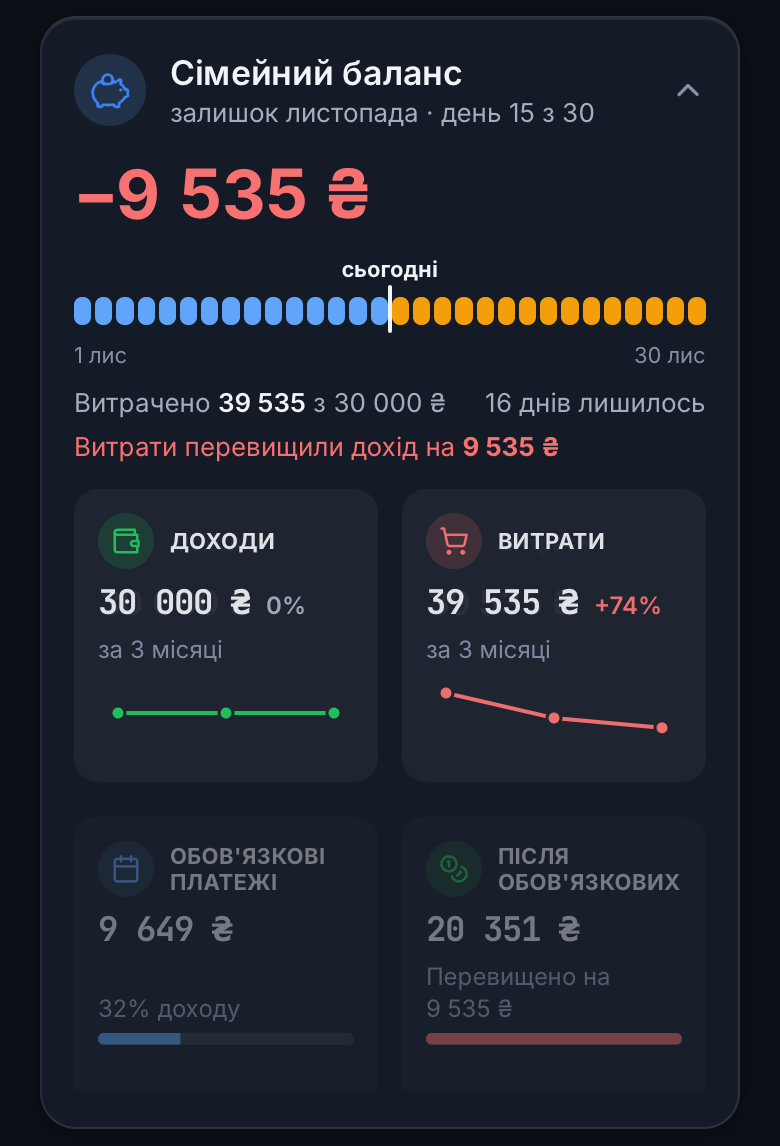
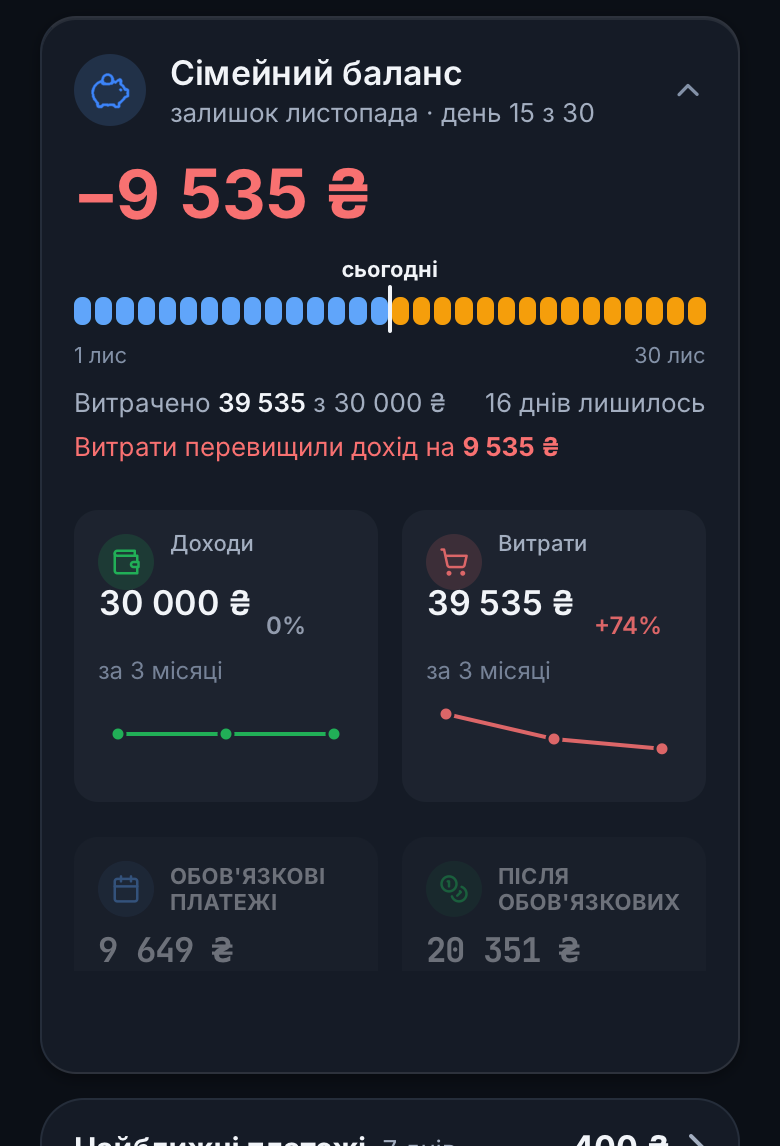
Rev 2.32.416 FIX-1119 п.10 (відповідь чату): одна копія значення без згасання, висота й вміст ростуть синхронно (380 мс, --ease-standard), кадри згортання зняті окремо й перевіряються на відмінність від розгортання; не запушено

diff --git a/css/app.css b/css/app.css
@@ -2772,7 +2772,7 @@
 /* ===== Rev 2.32.385 (DS-5a): картка «Сімейний баланс» (макет docs/ui/mockups/analytics-ds, v18). Лише токени; рух — transform/opacity, висота розгортання — grid-template-rows (виняток ДС-плану, як у «Словнику»). Значення макета, що не лягають на шкалу токенів (відступи 6/10 px, шрифт 19 px), округлено до найближчого токена. ===== */
 .bal-wrap{ margin-bottom:var(--sp-3); }
 .bal-wrap.hidden{ display:none; }
-.bal-card{ --bal-seg-step:14ms; --bal-seg-base:150ms; --bal-late:650ms; --bal-dot-step:60ms; --bal-dot-base:250ms; --bal-inx:80ms; --bal-line:150ms; display:flex; flex-direction:column; gap:var(--sp-3); padding:var(--sp-4); margin-top:0; background:var(--surface); border:1px solid var(--line); border-radius:var(--r-l); box-shadow:none; min-width:0; }
+.bal-card{ --bal-seg-step:14ms; --bal-seg-base:150ms; --bal-late:650ms; --bal-dot-step:60ms; --bal-dot-base:250ms; --bal-inx:0ms; --bal-line:150ms; display:flex; flex-direction:column; gap:var(--sp-3); padding:var(--sp-4); margin-top:0; background:var(--surface); border:1px solid var(--line); border-radius:var(--r-l); box-shadow:none; min-width:0; }
 .bal-sum{ display:flex; flex-direction:column; gap:var(--sp-3); width:100%; margin:0; padding:0; border:0; background:none; color:inherit; font:inherit; text-align:left; cursor:pointer; border-radius:var(--r-xs); transition:opacity var(--t-micro) var(--ease-standard); }
 .bal-sum:active{ opacity:.6; }
 .bal-top{ display:flex; align-items:center; gap:var(--sp-3); }
@@ -2819,9 +2819,9 @@
 @keyframes balDraw{ from{ stroke-dashoffset:1; } }
 @keyframes balDot{ from{ opacity:0; transform:scale(.3); } }
 /* розкриття на місці: висота 320 мс, вміст із затримкою 80 мс */
-.bal-xp{ display:grid; grid-template-rows:0fr; margin-top:calc(var(--sp-3) * -1); transition:grid-template-rows var(--t-m) var(--ease-out); }
+.bal-xp{ display:grid; grid-template-rows:0fr; margin-top:calc(var(--sp-3) * -1); transition:grid-template-rows 380ms var(--ease-standard); } /* Rev 2.32.416 (FIX-1119 п.10, відповідь чату): висота росте й зменшується тією самою тривалістю (380 мс, як FLIP значень) і рівномірною кривою --ease-standard (було --ease-out: ≈ 60 % висоти вже на 20 % часу, картка стрибала й стояла порожньою) */
 .bal-xp > div{ overflow:hidden; min-height:0; }
-.bal-xin{ display:flex; flex-direction:column; gap:var(--sp-3); padding-top:var(--sp-3); opacity:0; transition:opacity var(--t-s) var(--ease-standard); }
+.bal-xin{ display:flex; flex-direction:column; gap:var(--sp-3); padding-top:var(--sp-3); opacity:0; transition:opacity 380ms var(--ease-standard); }
 .bal-card.open > .bal-xp{ grid-template-rows:1fr; }
 .bal-card.open > .bal-xp .bal-xin{ opacity:1; transition-delay:var(--bal-inx); }
 .bal-xp.bal-inv{ grid-template-rows:1fr; }

diff --git a/e2e/fix1119-flip-frames.spec.js b/e2e/fix1119-flip-frames.spec.js
@@ -28,7 +28,8 @@ test('fix1119-flip-frames', async ({ browser }) => {
     });
     const clip = { x: 0, y: box.y, width: 390, height: box.h };
     for (const dir of ['open', 'close']) {
-      if (dir === 'close') { await page.evaluate(async () => { toggleBalanceCard(); await new Promise(r => setTimeout(r, 900)); }); }
+      // згортання знімаємо з розгорнутого стану (після фази open картка розгорнута): один toggle = анімація згортання
+      if (dir === 'close') { const isOpen = await page.evaluate(() => document.getElementById('bal-card').classList.contains('open')); if (!isOpen) throw new Error('перед згортанням картка має бути розгорнутою'); }
       await page.evaluate(() => { toggleBalanceCard(); });
       await page.evaluate(() => { document.getAnimations().forEach(a => a.pause()); });
       for (const pr of STEPS) {
@@ -38,9 +39,14 @@ test('fix1119-flip-frames', async ({ browser }) => {
       }
       await page.evaluate(() => { document.getAnimations().forEach(a => { try { a.finish(); } catch (e) {} }); });
       await page.waitForTimeout(500);
-      // повернути в початковий стан для наступного напряму: після close картка згорнута; після open — розгорнута
     }
     await ctx.close();
+  }
+  // перевірка: кадри розгортання й згортання різні (раніше збігалися побайтово)
+  const crypto = require('crypto');
+  for (const theme of ['dark', 'light']) for (const pr of STEPS.slice(1, -1)) {
+    const h = d => crypto.createHash('md5').update(fs.readFileSync(path.join(DIR, 'flip-' + d + '-' + theme + '-' + String(pr).padStart(3, '0') + '.png'))).digest('hex');
+    if (h('open') === h('close')) throw new Error('кадри open і close збігаються: ' + theme + ' ' + pr);
   }
   // контактні аркуші: один PNG на тему й напрям (6 кадрів у ряд)
   const page = await browser.newPage({ viewport: { width: 1240, height: 400 } });

diff --git a/js/analytics.js b/js/analytics.js
@@ -1147,11 +1147,11 @@ function balFlipRun(card, pairs, plan, toOpen){
     card.appendChild(g);
     const fs = parseFloat(st.fontSize) || 1, sc = plan.toFs[i] > 0 ? plan.toFs[i] / fs : 1, gh = g.getBoundingClientRect().height;
     const dx = l.x - f.x, dy = (l.y + l.h / 2) - f.y - gh * sc / 2; // вирівнювання за центром рядка
-    run(g, [{ transform: 'translate(0, 0) scale(1)', opacity: 1 }, { transform: 'translate(' + dx + 'px, ' + dy + 'px) scale(' + sc + ')', opacity: 1, offset: .7 }, { transform: 'translate(' + dx + 'px, ' + dy + 'px) scale(' + sc + ')', opacity: 0 }], base);
+    // Rev 2.32.416 (відповідь чату): ніколи дві копії суми — летить ОДНА копія (opacity 1 до кінця), справжні елементи (звідки й куди) приховані на весь час польоту; на кінці копія знімається, а значення в місці призначення з'являється одразу (balFlipClear)
+    run(g, [{ transform: 'translate(0, 0) scale(1)' }, { transform: 'translate(' + dx + 'px, ' + dy + 'px) scale(' + sc + ')' }], base);
     const src = toOpen ? p.bottom : p.tile, dst = toOpen ? p.tile : p.bottom;
-    src.style.opacity = '0'; // справжній елемент прихований, поки летить копія
+    src.style.opacity = '0';
     dst.style.opacity = '0';
-    run(dst, [{ opacity: 0 }, { opacity: 0, offset: .6 }, { opacity: 1 }], base);
   });
   const tiles = document.querySelectorAll('#bal-card .bal-kpi');
   Array.prototype.forEach.call(tiles, function(t, i){
